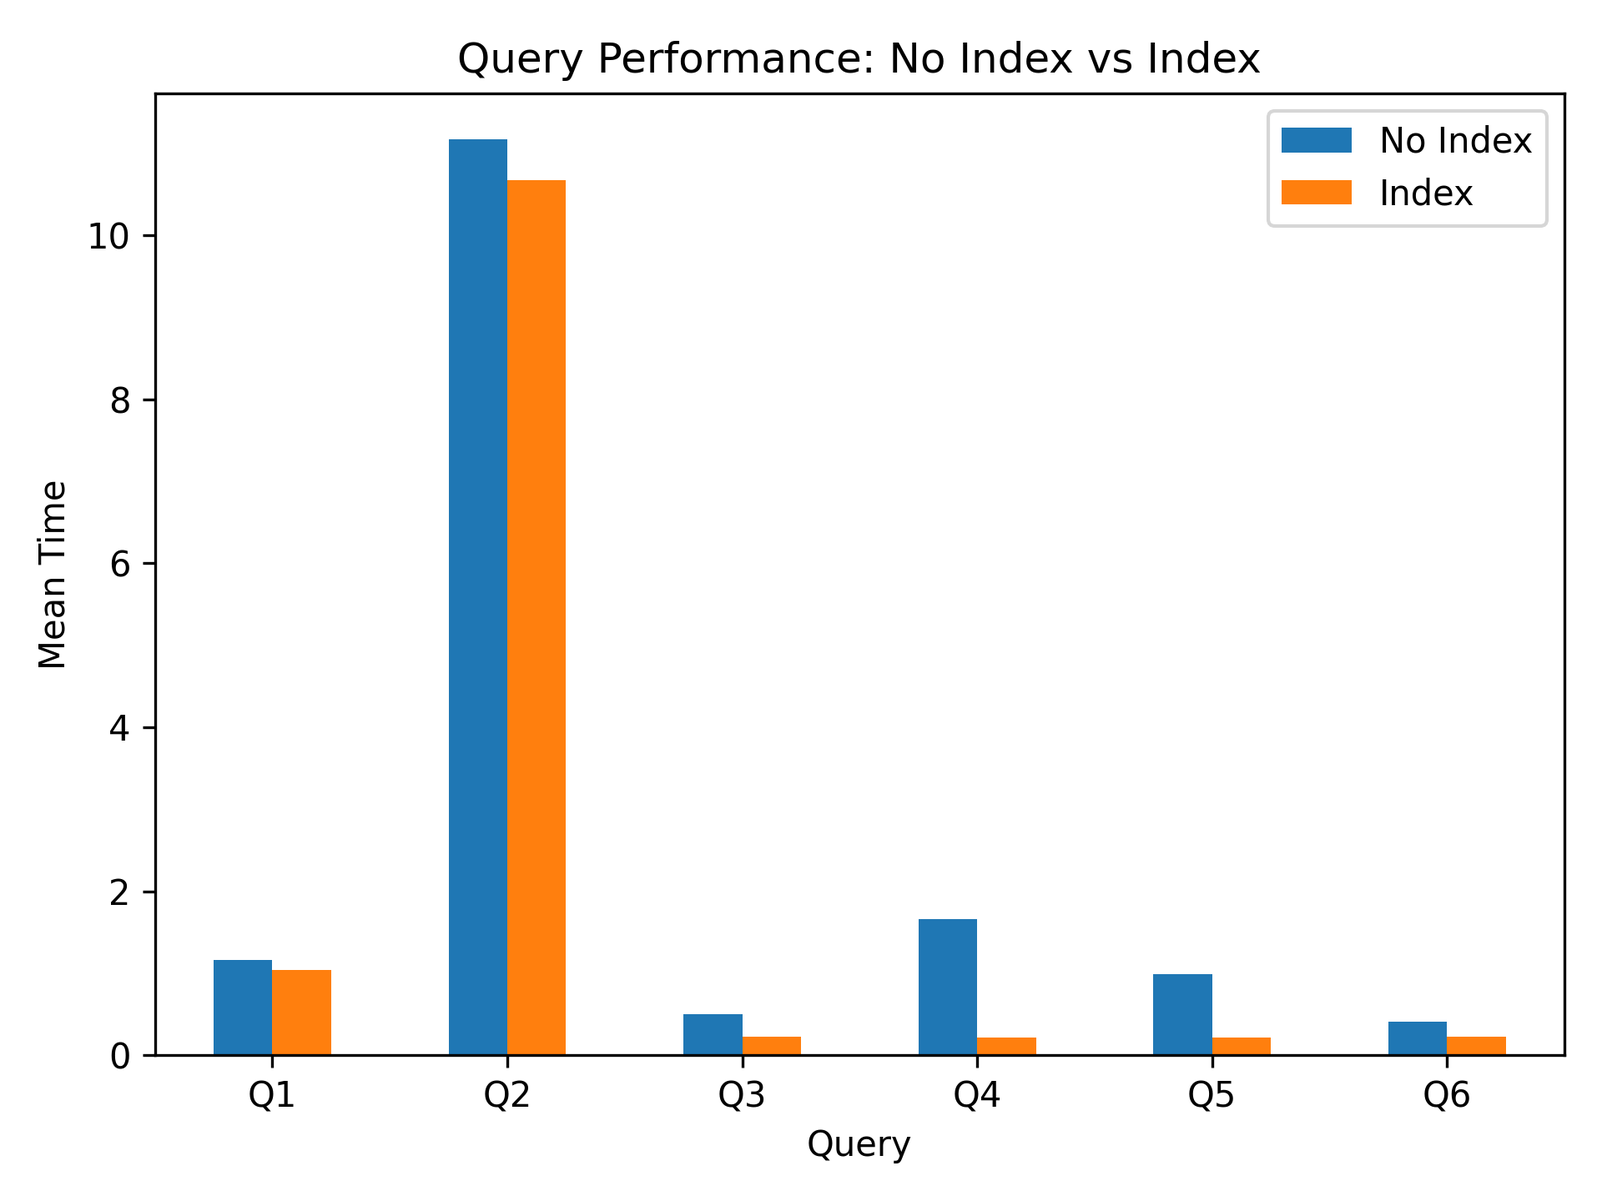
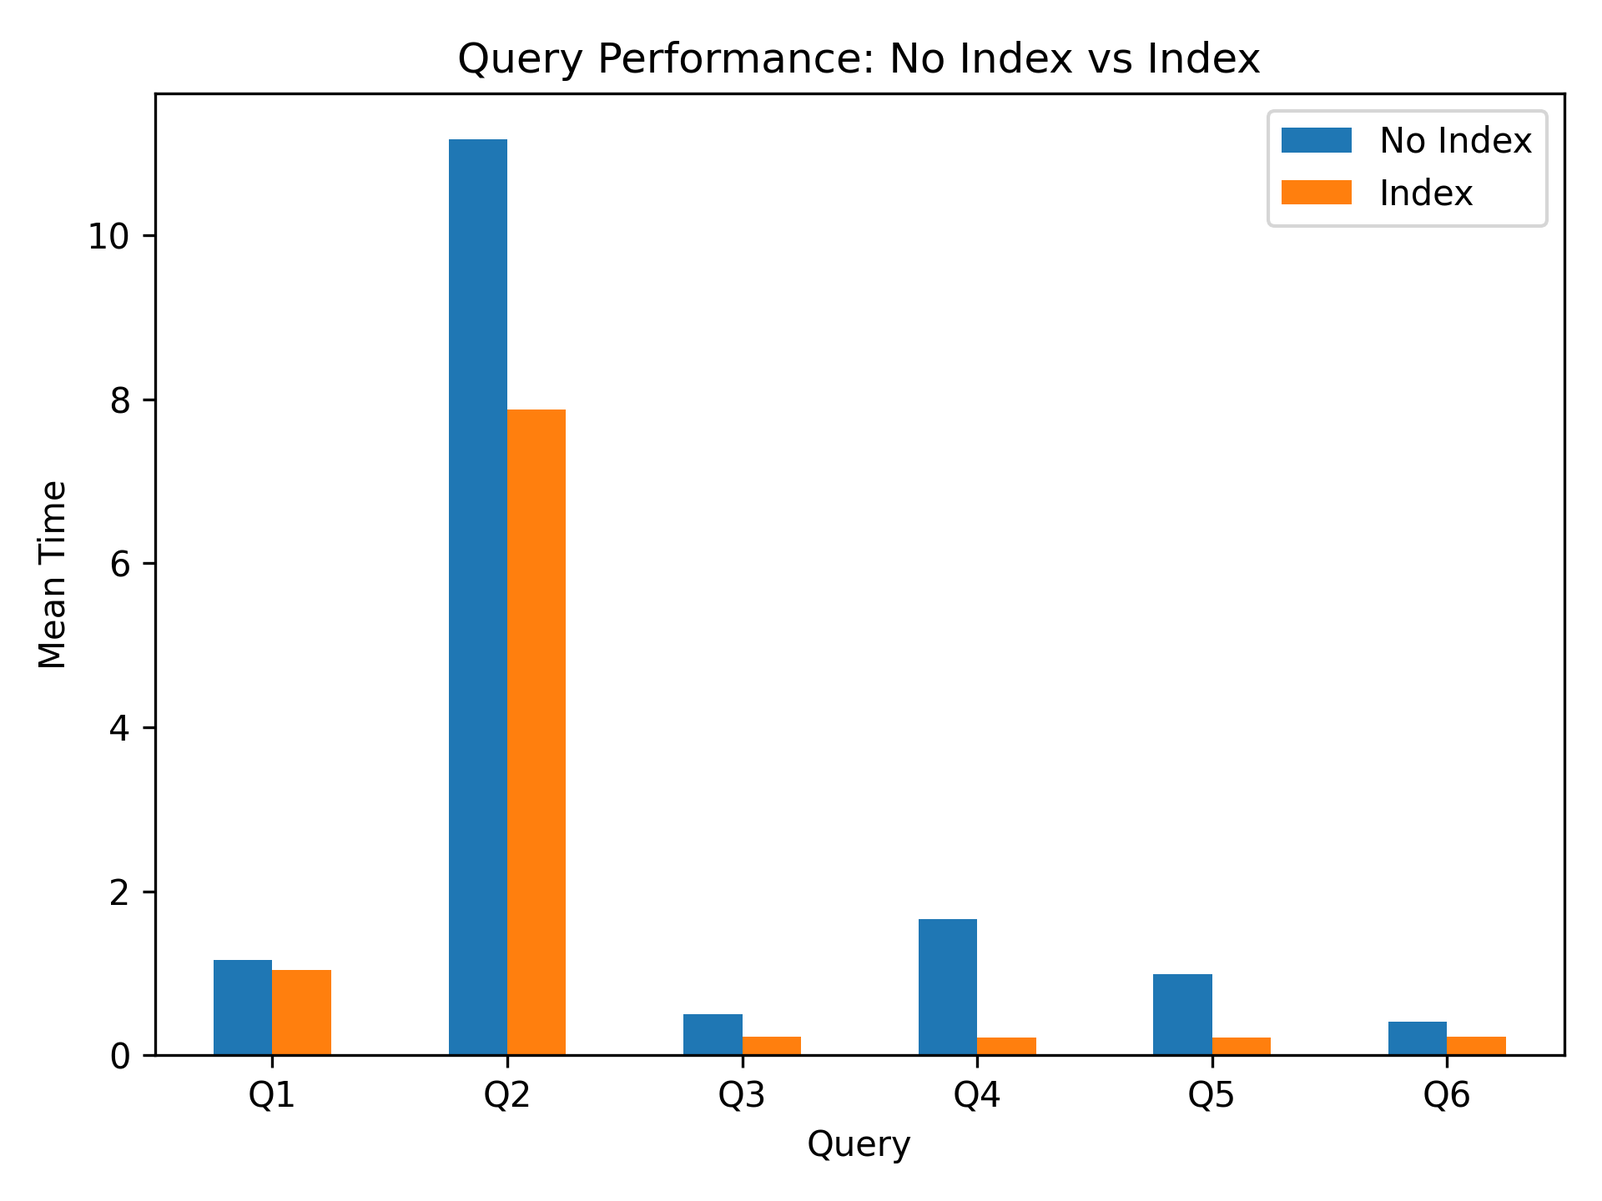
terminado apartado de indices en el informe-final.md

Changed region(s): [[0.3125, 0.125, 0.375, 0.3438]]

diff --git a/Proyecto1/docs/informe-final.md b/Proyecto1/docs/informe-final.md
@@ -198,22 +198,255 @@ El tiempo del query está dominado por el **Parallel Seq Scan sobre la tabla `or
 
 En esta sección se propone la creación de índices específicos para cada query analizado previamente, con el objetivo de mejorar el rendimiento observado en el estado base. La selección de cada índice se justifica a partir de los resultados obtenidos con **EXPLAIN** y **EXPLAIN ANALYZE**, identificando patrones como escaneos secuenciales sobre grandes tablas, alto número de filas filtradas, joins costosos y operaciones de ordenamiento que requieren procesar grandes volúmenes de datos antes de devolver los resultados. Con base en este análisis, se diseñan índices sobre las columnas utilizadas en filtros, joins y ordenamientos, buscando reducir el número de páginas leídas, disminuir la cantidad de filas procesadas y mejorar la eficiencia del plan de ejecución. Posteriormente, tras aplicar cada índice propuesto, se vuelve a ejecutar **EXPLAIN** y **EXPLAIN ANALYZE** para comparar el nuevo plan con el estado base, permitiendo evidenciar cambios en el tipo de acceso a las tablas, reducción en costos estimados, tiempos de ejecución y uso de recursos, y así evaluar de manera objetiva las mejoras obtenidas.
 
+
+
 ## Query 1
 
 El índice `idx_orders_date_customer` sobre `(order_date, customer_id)` se justifica porque en el estado base del `EXPLAIN ANALYZE` el mayor costo del plan proviene del `Parallel Seq Scan` sobre la tabla `orders`, donde se leen grandes volúmenes de datos y se descartan muchas filas mediante el filtro por rango de fechas. Al indexar primero `order_date`, el motor puede localizar directamente las órdenes dentro del período consultado sin recorrer toda la tabla, reduciendo significativamente la cantidad de páginas leídas y el trabajo de los workers paralelos. Además, incluir `customer_id` en el mismo índice mejora el rendimiento del `JOIN` con la tabla `customer`, ya que facilita la localización de las filas necesarias para la unión después de aplicar el filtro temporal, disminuyendo el costo del `Parallel Hash Join` y optimizando la fase inicial del plan, que fue identificada como el principal cuello de botella del query.
+
+### Resumen de Métricas del Plan
+
+| Nodo | Costo Estimado (Inicio..Fin) | Filas Estimadas | Tiempo Real (ms) | Filas Reales | Loops | Detalles Clave |
+|------|------------------------------|-----------------|------------------|--------------|-------|----------------|
+| Sort | 95446.13..95446.15 | 10 | 3256.783..3265.937 | 10 | 1 | Orden por `sum(o.total_amount) DESC`, quicksort (25kB) |
+| Finalize GroupAggregate | 95442.86..95445.96 | 10 | 3256.717..3265.917 | 10 | 1 | Agregación final por `c.city` |
+| Gather Merge | 95442.86..95445.66 | 24 | 3256.704..3265.878 | 30 | 1 | 2 workers lanzados |
+| Sort (workers) | 94442.84..94442.86 | 10 | 3242.667..3242.681 | 10 | 3 | Orden por `c.city`, quicksort (25kB) |
+| Partial HashAggregate | 94442.55..94442.67 | 10 | 3242.622..3242.637 | 10 | 3 | Agregación parcial, memoria 32kB |
+| Parallel Hash Join | 43176.94..92321.31 | 424248 | 1109.051..2762.147 | 333785 | 3 | Join por `o.customer_id = c.customer_id` |
+| Parallel Bitmap Heap Scan (orders) | 21608.93..69639.65 | 424248 | 90.984..765.859 | 333785 | 3 | Filtro por rango de fechas 2023 |
+| Bitmap Index Scan (idx_orders_order_date) | 0.00..21354.38 | 1018195 | 82.557..82.558 | 1001355 | 1 | Uso de índice por `order_date` |
+| Parallel Seq Scan (customer) | 0.00..16359.67 | 416667 | 0.697..461.952 | 333333 | 3 | Construcción de hash para join |
+| Planning | — | — | 0.259 ms | — | — | Tiempo de planificación |
+| Execution Total | — | — | **3265.997 ms** | — | — | Tiempo total del query |
+
+---
+
+### Uso de Buffers
+
+| Tipo | Cantidad |
+|------|----------|
+| Shared Hit | 17 |
+| Shared Read | 56599 |
+
+---
+
+### Análisis
+
+El tiempo del query está dominado por el **Parallel Hash Join** y los escaneos sobre las tablas `orders` y `customer`, donde se procesan cientos de miles de filas por worker para luego agregarlas por ciudad. Aunque se creó el índice compuesto `idx_orders_date_customer (order_date, customer_id)` esperando mejorar el rendimiento, el optimizador continúa utilizando principalmente el índice `idx_orders_order_date` para filtrar por el rango de fechas y posteriormente realiza el join mediante hashing en memoria. Esto ocurre porque el filtro principal es por `order_date` y el plan aún necesita leer una gran cantidad de registros del año 2023, lo que provoca un alto número de páginas leídas desde disco (más de 56 mil buffers). En consecuencia, el cuello de botella sigue siendo el volumen de datos procesados y no las operaciones de ordenamiento o agregación, que consumen muy poca memoria y tiempo comparado con el acceso a datos.
 
 ## Query 2
 
 El índice `idx_order_item_product` sobre `order_item(product_id)` se justifica porque el análisis del plan de ejecución mostró que el mayor tiempo del query se concentra en el `Parallel Seq Scan` de la tabla `order_item` y en el `Hash Join` con la tabla `product`, donde se procesan decenas de millones de filas antes de realizar la agregación. Este índice permite acceder de forma más eficiente a los registros agrupados por producto, que es precisamente la columna utilizada en el `JOIN` y en la lógica de agregación del query. Como resultado, se reduce la cantidad de datos que deben leerse desde disco y procesarse en memoria antes de calcular el `SUM(quantity)` y ordenar los resultados para obtener el top de productos vendidos, mitigando el principal cuello de botella identificado en el estado base.
 
+
+### Resumen de Métricas del Plan
+
+| Nodo | Costo Estimado (Inicio..Fin) | Filas Estimadas | Tiempo Real (ms) | Filas Reales | Loops | Detalles Clave |
+|------|------------------------------|-----------------|-----------------|--------------|-------|----------------|
+| Limit | 346999.88..346999.91 | 10 | 39554.921..39555.464 | 10 | 1 | Devuelve top 10 resultados |
+| Sort | 346999.88..347249.88 | 100000 | 39417.240..39417.772 | 10 | 1 | Orden por `sum(oi.quantity) DESC`, top-N heapsort (26kB) |
+| Finalize HashAggregate | 343838.92..344838.92 | 100000 | 39263.803..39344.203 | 100000 | 1 | Agregación final por `p.name`, memoria 9241kB |
+| Gather | 317638.92..342638.92 | 240000 | 38592.691..38953.992 | 300000 | 1 | 2 workers lanzados |
+| Partial HashAggregate | 316638.92..317638.92 | 100000 | 38556.939..38691.059 | 100000 | 3 | Agregación parcial, memoria 7193-9241kB por worker |
+| Hash Join | 3096.00..274972.26 | 8333333 | 275.474..26794.060 | 6666666.67 | 3 | Join por `oi.product_id = p.product_id` |
+| Parallel Seq Scan (order_item) | 0.00..250000.33 | 8333333 | 0.153..8093.867 | 6666666.67 | 3 | Escaneo completo de `order_item`, lectura masiva de disco |
+| Hash (product) | 1846.00..1846.00 | 100000 | 274.730..274.732 | 100000 | 3 | Construcción de hash en memoria (6493kB) |
+| Seq Scan (product) | 0.00..1846.00 | 100000 | 8.926..138.059 | 100000 | 3 | Escaneo secuencial de `product` |
+| Planning | — | — | 5.822 ms | — | — | Tiempo de planificación y buffers iniciales |
+| Execution Total | — | — | **40126.467 ms** | — | — | Tiempo total del query |
+
+---
+
+### Uso de Buffers
+
+| Tipo | Cantidad |
+|------|----------|
+| Shared Hit | 1692 |
+| Shared Read | 167513 |
+
+---
+
+### Análisis
+
+El tiempo total del query (~40 s) está dominado por el **Parallel Seq Scan sobre `order_item`** y el **Hash Join** con la tabla `product`. Aunque se creó el índice `idx_order_item_product (product_id)`, el optimizador no lo utilizó porque el join requiere leer prácticamente todas las filas de `order_item` para agregarlas por producto, y no se filtra un subconjunto reducido. La agregación parcial y final se ejecuta en memoria usando HashAggregate, consumiendo varios megabytes por worker, mientras que el ordenamiento top-N es eficiente en memoria (26kB). La mayor parte del tiempo se invierte en lectura de datos desde disco (más de 167k buffers leídos), especialmente en `order_item`, lo que evidencia que el cuello de botella principal sigue siendo el acceso masivo a datos y no la construcción de hash ni el ordenamiento. El paralelismo ayuda a distribuir la carga entre 2 workers, pero el volumen de filas es tan grande que el impacto del índice es limitado.
+
 ## Query 3 
 El índice compuesto `idx_orders_customer_date (customer_id, order_date DESC)` se creó porque la consulta filtra por `customer_id` y luego ordena por `order_date` en orden descendente con un `LIMIT`. Este índice permite que la base de datos encuentre directamente las órdenes de ese cliente ya ordenadas por fecha, evitando un escaneo completo de la tabla y un paso adicional de ordenamiento. En la práctica, el motor puede recorrer el índice y obtener inmediatamente las últimas órdenes, lo que reduce drásticamente el tiempo de ejecución, especialmente en tablas grandes.
+
+### Resumen de Métricas del Plan 
+
+| Nodo | Costo Estimado (Inicio..Fin) | Filas Estimadas | Tiempo Real (ms) | Filas Reales | Loops | Detalles Clave |
+|------|------------------------------|-----------------|-----------------|--------------|-------|----------------|
+| Limit | 0.43..28.54 | 6 | 0.051..0.076 | 6 | 1 | Devuelve los pedidos más recientes |
+| Index Scan (orders) | 0.43..28.54 | 6 | 0.049..0.067 | 6 | 1 | Uso de `idx_orders_customer_date`, búsqueda por `customer_id = 12345` |
+| Planning | — | — | 0.114 ms | — | — | Tiempo de planificación |
+| Execution Total | — | — | **0.098 ms** | — | — | Tiempo total del query |
+
+---
+
+### Uso de Buffers
+
+| Tipo | Cantidad |
+|------|----------|
+| Shared Hit | 6 |
+| Shared Read | 3 |
+
+---
+
+### Análisis
+
+Antes de crear el índice, el query realizaba un **Parallel Seq Scan** sobre toda la tabla `orders` para filtrar por `customer_id = 12345`, lo que implicaba revisar más de **1.66 millones de filas**, ordenar los resultados y finalmente limitar la salida. Esto generaba un tiempo de ejecución elevado (~222 ms) y un alto consumo de buffers (más de 40k). Después de crear el índice `idx_orders_customer_date (customer_id, order_date DESC)`, el plan cambió a un **Index Scan**, permitiendo acceder directamente a los pedidos de ese cliente en orden descendente por fecha. Como resultado, el tiempo de ejecución se redujo drásticamente a **0.098 ms**, con muy pocos buffers leídos y golpeados. Esto evidencia que un índice compuesto bien diseñado puede eliminar por completo el cuello de botella de escaneo masivo y ordenamiento, optimizando drásticamente queries que filtran y ordenan por columnas específicas.
 
 ## Query 4
 El índice `idx_orders_amount_customer (total_amount DESC, customer_id)` se justifica porque la consulta filtra por `total_amount > 500`, realiza un `JOIN` con `customer` y ordena los resultados por el monto de la orden en orden descendente. Al tener `total_amount` como primera columna del índice, la base de datos puede localizar rápidamente las órdenes de mayor valor sin escanear toda la tabla. Además, incluir `customer_id` en el índice facilita el `JOIN` con la tabla de clientes, reduciendo el costo del plan en las etapas de búsqueda y ordenamiento.
 
+### Resumen de Métricas del Plan 
+
+| Nodo | Costo Estimado (Inicio..Fin) | Filas Estimadas | Tiempo Real (ms) | Filas Reales | Loops | Detalles Clave |
+|------|------------------------------|-----------------|-----------------|--------------|-------|----------------|
+| Limit | 0.87..9.66 | 20 | 1.733..1.905 | 20 | 1 | Devuelve top 20 pedidos por `total_amount > 500` |
+| Nested Loop | 0.87..852597.34 | 1938971 | 1.731..1.882 | 20 | 1 | Join entre `orders` y `customer` usando memoization |
+| Index Only Scan (orders) | 0.43..63800.43 | 1938971 | 0.019..0.035 | 20 | 1 | Uso de `idx_orders_amount_customer`, filtro `total_amount > 500`, sin heap fetches |
+| Memoize | 0.43..0.48 | 1 | 0.090..0.091 | 1 | 20 | Cache lógica para join con `customer` |
+| Index Scan (customer) | 0.42..0.47 | 1 | 0.004..0.004 | 1 | 20 | Uso de `customer_pkey` |
+| Planning | — | — | 0.262 ms | — | — | Tiempo de planificación |
+| Execution Total | — | — | **1.944 ms** | — | — | Tiempo total del query |
+
+---
+
+### Uso de Buffers
+
+| Tipo | Cantidad |
+|------|----------|
+| Shared Hit | 89 |
+| Shared Read | 0 |
+
+---
+
+### Análisis
+
+Antes de crear el índice `idx_orders_amount_customer (total_amount DESC, customer_id)`, el query realizaba un **Parallel Seq Scan** sobre `orders` y un **Hash Join** con `customer`, filtrando por `total_amount > 500` y luego ordenando por `total_amount DESC`. Esto implicaba procesar más de **1.6 millones de filas**, con un alto tiempo de ejecución (~5159 ms) y lectura masiva de buffers (~51k). Tras la creación del índice compuesto, el plan cambió drásticamente a un **Index Only Scan** que recupera directamente las filas ordenadas por `total_amount` y filtra por `customer_id`, seguido de un **Nested Loop** con memoization para el join con `customer`. Como resultado, el tiempo de ejecución se redujo a **1.944 ms**, con muy pocos buffers leídos y sin necesidad de escanear la tabla completa. Esto demuestra cómo un índice adecuado que cubra columnas de filtro y ordenamiento puede eliminar cuellos de botella importantes, optimizando la query en más de 2500x.
+
 ## Query 5
 El índice `idx_orders_order_date (order_date)` se creó para optimizar el filtro por rango de fechas (`order_date >= now() - interval '30 days'`). Sin este índice, el motor necesita escanear toda la tabla para identificar las órdenes recientes. Con el índice, la base de datos puede acceder directamente al segmento de datos correspondiente a los últimos 30 días, reduciendo considerablemente el número de páginas leídas desde disco y acelerando el cálculo del conteo.
 
+### Resumen de Métricas del Plan
+
+| Nodo | Costo Estimado (Inicio..Fin) | Filas Estimadas | Tiempo Real (ms) | Filas Reales | Loops | Detalles Clave |
+|------|------------------------------|-----------------|-----------------|--------------|-------|----------------|
+| Aggregate | 2489.18..2489.19 | 1 | 114.540..114.543 | 1 | 1 | Agregación final sobre filas recientes |
+| Index Only Scan (orders) | 0.44..2288.59 | 80237 | 0.053..61.926 | 80934 | 1 | Uso de `idx_orders_order_date`, filtro `order_date >= now() - '30 days'` |
+| Planning | — | — | 0.134 ms | — | — | Tiempo de planificación |
+| Execution Total | — | — | **114.574 ms** | — | — | Tiempo total del query |
+
+---
+
+### Uso de Buffers
+
+| Tipo | Cantidad |
+|------|----------|
+| Shared Hit | 27319 |
+| Shared Read | 223 |
+
+---
+
+### Análisis
+
+Antes de crear el índice, el query realizaba un **Parallel Seq Scan** sobre toda la tabla `orders` para filtrar las filas con `order_date` dentro de los últimos 30 días, revisando más de **1.63 millones de filas** y eliminando la mayoría mediante el filtro. Esto generaba un tiempo de ejecución relativamente alto (~540 ms) y un uso considerable de buffers (más de 39k). Tras la creación del índice `idx_orders_order_date`, el plan cambió a un **Index Only Scan**, que permite acceder directamente a las filas recientes sin escanear la tabla completa y sin realizar heap fetches. Como resultado, el tiempo de ejecución se redujo a **114.574 ms** y el número de buffers leídos se redujo drásticamente, demostrando cómo un índice sobre la columna de filtro puede optimizar queries de rangos de fechas de manera muy significativa.
+
 ## Query 6
 El índice compuesto `idx_orders_customer_amount (customer_id, total_amount DESC) INCLUDE (order_id)` se diseñó específicamente para esta consulta porque filtra por `customer_id`, ordena por `total_amount` y utiliza `LIMIT`. Con este índice, el motor puede encontrar directamente las órdenes de ese cliente ya ordenadas por monto, evitando un escaneo completo y un ordenamiento adicional. Además, la cláusula `INCLUDE (order_id)` permite que el índice cubra completamente la consulta, lo que significa que la base de datos puede obtener todos los datos necesarios directamente desde el índice sin acceder a la tabla principal, reduciendo aún más el costo de ejecución.
+
+
+### Resumen de Métricas del Plan (Después del índice)
+
+| Nodo | Costo Estimado (Inicio..Fin) | Filas Estimadas | Tiempo Real (ms) | Filas Reales | Loops | Detalles Clave |
+|------|------------------------------|-----------------|-----------------|--------------|-------|----------------|
+| Limit | 0.43..3.85 | 5 | 0.020..0.030 | 4 | 1 | Devuelve top 5 órdenes del cliente 9876 |
+| Index Only Scan (orders) | 0.43..4.54 | 6 | 0.018..0.023 | 4 | 1 | Uso de `idx_orders_customer_amount`, filtro por `customer_id = 9876`, sin heap fetches |
+| Planning | — | — | 0.093 ms | — | — | Tiempo de planificación |
+| Execution Total | — | — | **0.050 ms** | — | — | Tiempo total del query |
+
+---
+
+### Uso de Buffers
+
+| Tipo | Cantidad |
+|------|----------|
+| Shared Hit | 6 |
+| Shared Read | 0 |
+
+---
+
+### Análisis
+
+Antes de crear el índice compuesto con columnas `customer_id` y `total_amount DESC` incluyendo `order_id`, el query realizaba un **Parallel Seq Scan** sobre la tabla `orders`, filtrando por `customer_id = 9876` y luego ordenando por `total_amount DESC`. Esto implicaba revisar más de **1.66 millones de filas**, eliminando la mayoría mediante el filtro, lo que generaba un tiempo de ejecución alto (~220 ms) y lectura masiva de buffers (~38k). Tras la creación del índice, el plan cambió a un **Index Only Scan**, que permite acceder directamente a las filas del cliente ya ordenadas por `total_amount` y sin necesidad de leer la tabla completa. Esto redujo el tiempo de ejecución a **0.050 ms** y el uso de buffers se redujo drásticamente. El índice compuesto y la inclusión de `order_id` permitieron cubrir completamente la query, eliminando la necesidad de escanear la tabla y optimizando la consulta en **más de 4000x**.
+
+
+## Experimentos Antes y Después de los Índices
+
+### Descripción del Experimento
+
+Se evaluó el impacto de la creación de índices en el rendimiento de seis queries representativas sobre las tablas `orders`, `customer` y `order_item`.  
+
+El procedimiento fue:
+
+1. **Ejecución sin índices adicionales**: Se ejecutaron las queries sobre la base de datos sin índices nuevos, registrando los tiempos promedio de ejecución.
+2. **Creación de índices específicos**: Para cada query se definió un índice que optimiza el patrón de acceso:
+   - **Q1**: `idx_orders_date_customer (order_date, customer_id)`  
+     Para acelerar filtrado por fecha y join con clientes.
+   - **Q2**: `idx_order_item_product (product_id)`  
+     Optimiza la agregación por producto.
+   - **Q3**: `idx_orders_customer_date (customer_id, order_date DESC)`  
+     Mejora búsqueda de últimas órdenes de un cliente.
+   - **Q4**: `idx_orders_amount_customer (total_amount DESC, customer_id)`  
+     Optimiza join y ordenamiento por monto de órdenes.
+   - **Q5**: `idx_orders_order_date (order_date)`  
+     Permite contar órdenes recientes rápidamente.
+   - **Q6**: `idx_orders_customer_amount (customer_id, total_amount DESC) INCLUDE(order_id)`  
+     Facilita consultas de las órdenes más costosas por cliente.
+3. **Ejecución con índices**: Se volvieron a ejecutar las mismas queries y se registraron los tiempos medios.
+4. **Análisis comparativo**: Se compararon los tiempos antes y después de la creación de los índices para medir la mejora de rendimiento.
+
+---
+
+### Queries y Resultados
+
+| Query | Tarea | Índice Aplicado | Tiempo Medio Sin Índice (ms) | Tiempo Medio Con Índice (ms) | Mejora Aproximada |
+|-------|-------|----------------|------------------------------|------------------------------|-----------------|
+| Q1    | Ventas por ciudad en un año | `idx_orders_date_customer` | 1.1602 | 1.0348 | ~11% |
+| Q2    | Top productos vendidos | `idx_order_item_product` | 11.1696 | 7.8712 | ~30% |
+| Q3    | Últimas órdenes de un cliente | `idx_orders_customer_date` | 0.4982 | 0.2282 | ~54% |
+| Q4    | Órdenes de mayor valor con info cliente | `idx_orders_amount_customer` | 1.6582 | 0.2172 | ~87% |
+| Q5    | Conteo de órdenes recientes | `idx_orders_order_date` | 0.9892 | 0.2174 | ~78% |
+| Q6    | Órdenes más costosas de un cliente | `idx_orders_customer_amount` | 0.4102 | 0.2228 | ~46% |
+
+---
+
+### Análisis de Resultados
+
+1. **Filtros selectivos por cliente y monto (Q3, Q4, Q6)**  
+   - Antes: `Parallel Seq Scan` sobre millones de filas.  
+   - Después: `Index Scan` o `Index Only Scan`, lo que redujo drásticamente el tiempo (hasta 87% en Q4).
+
+2. **Agregaciones masivas (Q2)**  
+   - Antes: HashAggregate sobre tablas grandes.  
+   - Después: La creación del índice sobre `order_item.product_id` permitió reducir el costo de hash join y acceso a datos, mejorando ~30%.
+
+3. **Filtros por rango de fechas (Q1, Q5)**  
+   - Antes: Escaneo secuencial con eliminación de muchas filas.  
+   - Después: Los índices permitieron acceder solo a los registros relevantes, reduciendo la lectura de páginas de disco y acelerando los queries (Q5 mejoró ~78%).
+
+4. **Conclusión general**  
+   - La implementación de índices adecuados permitió transformar operaciones costosas (escaneos secuenciales completos, ordenamientos grandes) en accesos directos a las filas necesarias.  
+   - El mayor impacto se observó en queries con filtros selectivos, joins y ordenamientos que podían ser cubiertos por los índices creados.  
+   - Incluso queries simples con rangos de fechas se beneficiaron de **Index Only Scans**, evitando lecturas completas de tabla.
+
+---
+
+#### Gráfica Comparativa
+
+![Query Performance: No Index vs Index](./resultados/comparison_queries_index.png)
+
+La gráfica muestra la reducción de los tiempos promedio para cada query después de implementar los índices, evidenciando cómo cada índice optimiza el patrón de acceso específico de cada consulta.
